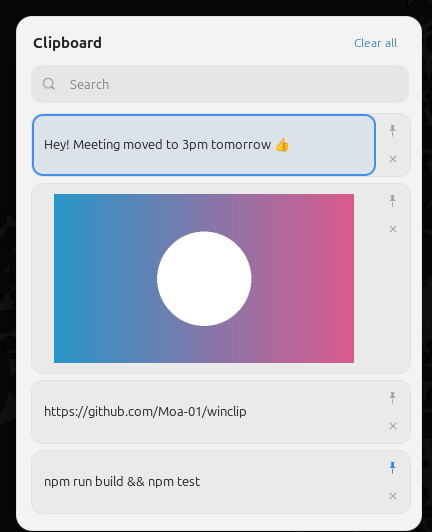
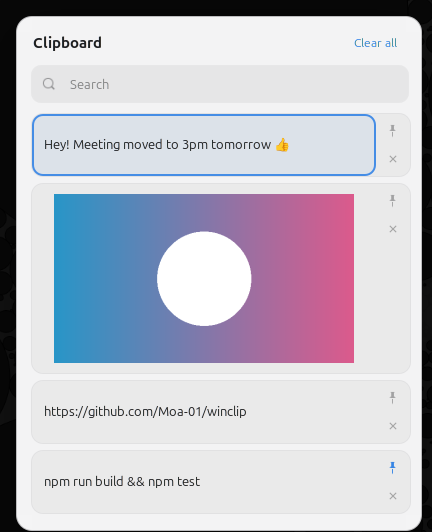
v1.2.1: thin border so the popup stays visible over same-colored windows

Changed region(s): [[0.0602, 0.9925, 0.963, 1.0]]

diff --git a/extension.js b/extension.js
@@ -376,7 +376,7 @@ export default class WinClip extends Extension {
         const {bg, fg, accent} = this._colors();
         const a = (c, o) => `rgba(${c.join(', ')}, ${o})`;
         const css = `
-#winclip { background-color: ${a(bg, 0.97)}; color: ${a(fg, 1)}; border-color: ${a(fg, 0.08)}; }
+#winclip { background-color: ${a(bg, 0.97)}; color: ${a(fg, 1)}; border-color: ${a(fg, 0.25)}; }
 #winclip .winclip-clear { color: ${a(accent, 1)}; }
 #winclip .winclip-clear:hover, #winclip .winclip-clear:focus { background-color: ${a(accent, 0.14)}; }
 #winclip .winclip-item { background-color: ${a(fg, 0.045)}; border-color: ${a(fg, 0.04)}; }

diff --git a/stylesheet.css b/stylesheet.css
@@ -3,7 +3,7 @@
   padding: 14px 10px 10px 14px;
   border-radius: 16px;
   background-color: rgba(30, 31, 36, 0.97);
-  border: 1px solid rgba(255, 255, 255, 0.08);
+  border: 1px solid rgba(255, 255, 255, 0.25);
   box-shadow: 0 16px 48px rgba(0, 0, 0, 0.5);
   color: #ececf1;
 }

diff --git a/CHANGELOG.md b/CHANGELOG.md
@@ -3,6 +3,11 @@
 All notable changes to WinClip. Versions follow [Semantic Versioning](https://semver.org/):
 **major** for breaking changes, **minor** for new features, **patch** for fixes.
 
+## [1.2.1] - 2026-11-23
+
+### Changed
+- The popup now has a thin border, so it stays visible on top of a window with the same background color (for example a black terminal when WinClip uses your terminal's colors).
+
 ## [1.2.0] - 2026-11-23
 
 ### Added
@@ -62,6 +67,7 @@ First release.
 - Skips copies password managers mark as secret.
 - GNOME 46 to 50.
 
+[1.2.1]: https://github.com/Moa-01/winclip/compare/v1.2.0...v1.2.1
 [1.2.0]: https://github.com/Moa-01/winclip/compare/v1.1.1...v1.2.0
 [1.1.1]: https://github.com/Moa-01/winclip/compare/v1.1.0...v1.1.1
 [1.1.0]: https://github.com/Moa-01/winclip/compare/v1.0.0...v1.1.0
